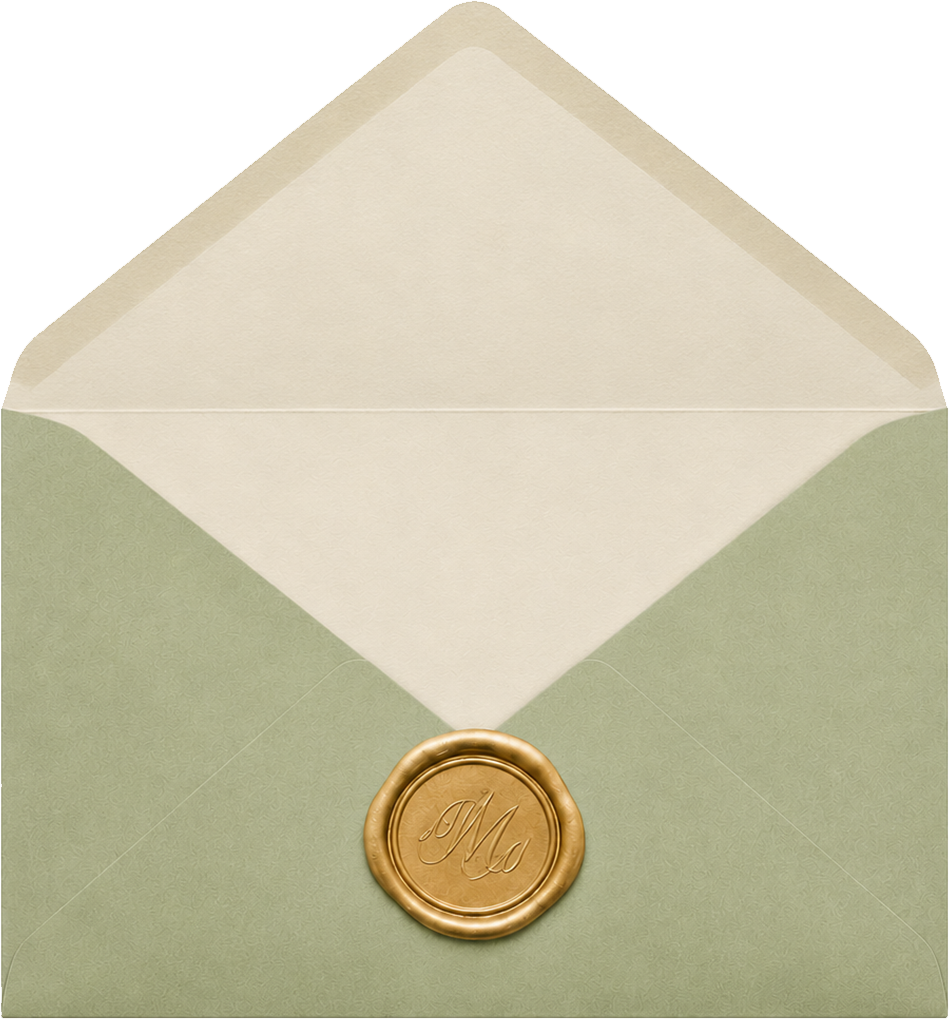
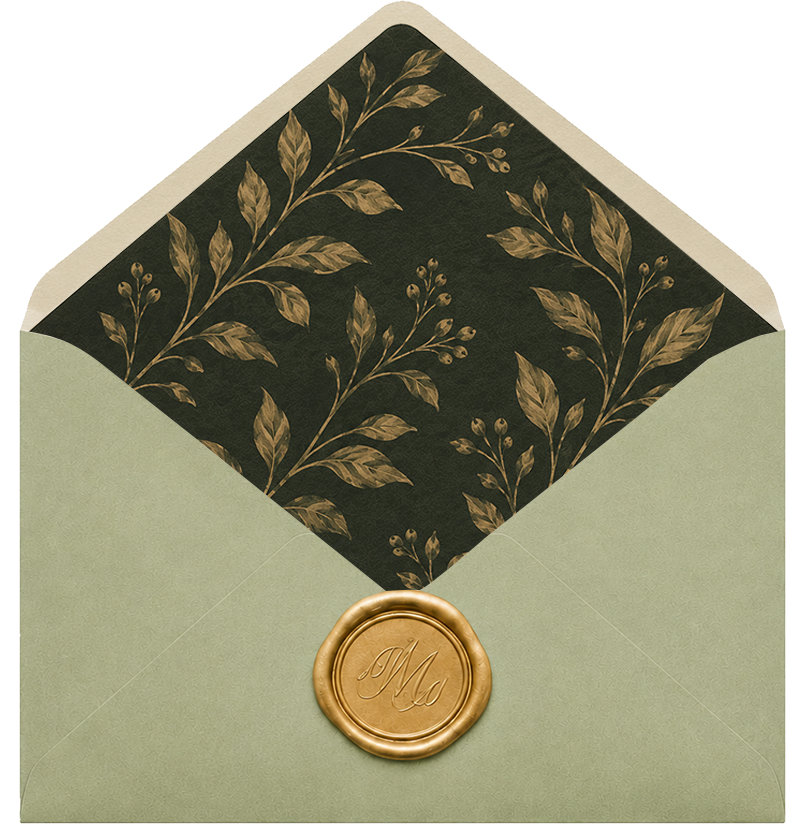
added google maps redirect and some fixes

diff --git a/index.html b/index.html
@@ -257,51 +257,84 @@
     display: flex;
     align-items: center;
     justify-content: center;
-    gap: 2rem;
+    gap: clamp(1.5rem, 6vw, 3.5rem);
     width: 100%;
     margin-top: 1rem;
   }
+
+  .playlist-row .envelope-img {
+    width: clamp(140px, 38vw, 260px);
+    height: auto;
+    object-fit: contain;
+    flex-shrink: 0;
+  }
+
   .vinyl-container {
     display: flex;
+    flex-direction: column;
     align-items: center;
-    gap: 1rem;
     cursor: pointer;
+    flex-shrink: 0;
   }
-  .vinyl-text span {
-    display: block;
-    font-family: 'Great Vibes', cursive;
-    font-size: 2rem;
-    color: #2C3B2E;
+
+  .vinyl-wrapper {
+    position: relative;
+    width: clamp(190px, 50vw, 360px);
+    height: clamp(140px, 38vw, 260px);
+    flex-shrink: 0;
+    transition: transform 0.4s cubic-bezier(0.175, 0.885, 0.32, 1.275), filter 0.4s ease;
   }
-  .vinyl-text small {
-    font-family: 'Jost', sans-serif;
-    letter-spacing: 2px;
-    font-size: 0.7rem;
-    text-transform: uppercase;
+
+  .vinyl-container:hover .vinyl-wrapper {
+    transform: scale(1.04) translateY(-4px);
+    filter: drop-shadow(0 15px 25px rgba(0,0,0,0.15));
   }
-  .vinyl-record {
-    width: 80px;
-    height: 80px;
-    background: #111;
+
+  .vinyl-container:active .vinyl-wrapper {
+    transform: scale(0.96) translateY(2px);
+    filter: drop-shadow(0 5px 10px rgba(0,0,0,0.1));
+    transition: transform 0.1s ease, filter 0.1s ease;
+  }
+  
+  .vinyl-disc {
+    position: absolute;
+    top: 50%;
+    left: 0;
+    width: clamp(140px, 38vw, 260px);
+    height: clamp(140px, 38vw, 260px);
+    transform: translateY(-50%);
+    transform-origin: center center;
     border-radius: 50%;
-    display: flex;
-    align-items: center;
-    justify-content: center;
-    box-shadow: 0 5px 15px rgba(0,0,0,0.2);
-    transition: transform 0.3s;
+    object-fit: cover;
+    z-index: 1;
+    transition: left 0.5s ease;
   }
-  .vinyl-record::before {
-    content: '';
-    width: 30px;
-    height: 30px;
-    background: #FAF7F2;
-    border-radius: 50%;
-    border: 2px solid #D4AF37;
+  
+  .vinyl-cover {
+    position: absolute;
+    top: 50%;
+    left: 0;
+    width: clamp(140px, 38vw, 260px);
+    height: clamp(140px, 38vw, 260px);
+    transform: translateY(-50%);
+    object-fit: contain;
+    z-index: 2;
+    filter: drop-shadow(0 5px 10px rgba(0,0,0,0.2));
+    transition: left 0.5s ease;
   }
-  .vinyl-container.playing .vinyl-record {
-    animation: spin 3s linear infinite;
+
+  .vinyl-container.playing .vinyl-disc {
+    left: 35%;
+    animation: spinDisc 2.5s linear infinite;
   }
-  @keyframes spin { 100% { transform: rotate(360deg); } }
+  .vinyl-container.playing .vinyl-cover {
+    left: 0;
+  }
+  
+  @keyframes spinDisc {
+    from { transform: translateY(-50%) rotate(0deg); }
+    to   { transform: translateY(-50%) rotate(360deg); }
+  }
 
   /* ════ MAIN INVITE & PHOTO OVERLAP ════ */
   .collage-row {
@@ -362,6 +395,11 @@
     text-align: center;
     padding: 2rem;
     cursor: pointer;
+    transition: transform 0.3s ease, box-shadow 0.3s ease;
+  }
+  .details-circle:hover {
+    transform: translateY(-5px);
+    box-shadow: 0 10px 30px rgba(0,0,0,0.12);
   }
   .details-circle h3 {
     font-family: 'Great Vibes', cursive;
@@ -430,7 +468,6 @@
     box-shadow: 0 12px 40px rgba(44,59,46,0.25), 0 3px 8px rgba(0,0,0,0.1);
   }
 
-  /* Revealed content underneath */
   .scratch-reveal {
     position: absolute;
     inset: 0;
@@ -481,7 +518,6 @@
     transition: none;
   }
 
-  /* Animate reveal content in when .revealed is added */
   .scratch-reveal.revealed .reveal-pre {
     animation: revealFadeUp 0.5s cubic-bezier(0.34,1.56,0.64,1) 0.05s forwards;
   }
@@ -498,7 +534,6 @@
     to { opacity: 1; transform: translateY(0); }
   }
 
-  /* Scratch canvas sits on top */
   #scratch-canvas {
     position: absolute;
     inset: 0;
@@ -508,7 +543,6 @@
     z-index: 1;
   }
 
-  /* Sparkle container — above canvas, no pointer events */
   #sparkle-container {
     position: absolute;
     inset: 0;
@@ -528,7 +562,6 @@
     100% { transform: translate(var(--tx), var(--ty)) scale(0); opacity: 0; }
   }
 
-  /* Custom cursor dot */
   #scratch-cursor {
     position: fixed;
     width: 36px;
@@ -548,7 +581,6 @@
     background: rgba(255,255,255,0.22);
   }
 
-  /* Countdown box */
   .countdown-box {
     background: #fff;
     padding: 1.5rem 2rem;
@@ -627,15 +659,12 @@
   <div class="scrapbook-container" id="main-content">
     
     <div class="playlist-row">
-      <div class="img-placeholder floral-placeholder-1" style="width: 100px; height: 100px; border-radius: 0;">
-        Flower Box
-      </div>
+      <img src="Envelope_Opened.png" alt="Opened Envelope" class="envelope-img">
       <div class="vinyl-container" id="vinyl-btn" onclick="toggleMusic()">
-        <div class="vinyl-text">
-          <span>Playlist</span>
-          <small>Click Here</small>
+        <div class="vinyl-wrapper">
+          <img src="Vinyl_Disc.png"  class="vinyl-disc"  alt="Vinyl Disc">
+          <img src="Vinyl_Cover.png" class="vinyl-cover" alt="Vinyl Cover">
         </div>
-        <div class="vinyl-record"></div>
       </div>
     </div>
 
@@ -649,7 +678,7 @@
         <p class="pre-title">Invitation<br>To Celebrate<br>The Wedding Of</p>
         <h3>Tanuj<br>&amp;<br>Kanchan</h3>
         <p style="font-style: italic; font-size: 0.8rem; margin-top: 1.5rem; color: #666;">
-          The Grand Palace<br>Pune, Maharashtra
+          Indraprashta Tower<br>Akola, Maharashtra
         </p>
       </div>
 
@@ -658,8 +687,8 @@
       </div>
     </div>
 
-    <div class="details-circle">
-      <h3>The Details</h3>
+    <div class="details-circle" onclick="window.open('https://www.google.com/maps/search/?api=1&query=P276%2BM2R%2C+New+Radhakisan+Plots%2C+Ranpise+Nagar%2C+Akola%2C+Maharashtra+444005', '_blank')">
+      <h3>The Venue</h3>
       <p class="pre-title">Click Here</p>
       <div class="img-placeholder key-placeholder">Key</div>
       <div class="polaroid" style="position: absolute; bottom: -20px; right: 20px; width: 80px; height: 100px; --rot: 12; padding: 5px 5px 20px 5px;">
@@ -707,6 +736,8 @@
           <div class="cd-item"><span id="cdM">--</span><small>Min</small></div>
           <div class="cd-item"><span id="cdS">--</span><small>Sec</small></div>
         </div>
+        <p style="margin-top: 1.2rem; font-family: 'Jost', sans-serif; font-size: 0.75rem; letter-spacing: 0.15em; text-transform: uppercase; color: #aaa;">Until the Big Day</p>
+        <p style="margin-top: 0.5rem; font-family: 'Great Vibes', cursive; font-size: 1.8rem; color: #2C3B2E; line-height: 1.2;">With love &amp; gratitude,<br>Tanuj and Kanchan</p>
       </div>
     </div>
 
@@ -767,11 +798,9 @@
   let fallbackTimer  = null;
   let lastX = null, lastY = null;
 
-  // ── Premium dark-green gold surface ───────────────────────
   function initScratch() {
     ctx.globalCompositeOperation = 'source-over';
 
-    // Deep green gradient
     const bg = ctx.createLinearGradient(0, 0, canvas.width, canvas.height);
     bg.addColorStop(0.00, '#2e4030');
     bg.addColorStop(0.35, '#243228');
@@ -780,7 +809,6 @@
     ctx.fillStyle = bg;
     ctx.fillRect(0, 0, canvas.width, canvas.height);
 
-    // Diagonal gold shimmer streaks
     ctx.globalAlpha = 0.06;
     for (let i = -canvas.height; i < canvas.width + canvas.height; i += 22) {
       ctx.beginPath();
@@ -790,7 +818,6 @@
       ctx.lineWidth = 7;
       ctx.stroke();
     }
-    // Fine noise
     ctx.globalAlpha = 0.035;
     for (let i = 0; i < 2400; i++) {
       ctx.beginPath();
@@ -800,26 +827,22 @@
     }
     ctx.globalAlpha = 1;
 
-    // Soft gold glow at centre
     const glow = ctx.createRadialGradient(canvas.width/2, canvas.height/2, 10, canvas.width/2, canvas.height/2, canvas.width*0.7);
     glow.addColorStop(0, 'rgba(212,175,55,0.1)');
     glow.addColorStop(1, 'rgba(0,0,0,0)');
     ctx.fillStyle = glow;
     ctx.fillRect(0, 0, canvas.width, canvas.height);
 
-    // Gold embossed text
     ctx.textAlign = 'center';
     ctx.textBaseline = 'middle';
     const cx = canvas.width/2, cy = canvas.height/2;
 
-    // Shadow
     ctx.fillStyle = 'rgba(0,0,0,0.5)';
     ctx.font = 'bold 16px Jost, sans-serif';
     ctx.fillText('✦  SCRATCH HERE  ✦', cx+1, cy-11);
     ctx.font = '11px Jost, sans-serif';
     ctx.fillText('to reveal the wedding date', cx+1, cy+15);
 
-    // Gold gradient text
     const gold = ctx.createLinearGradient(0, cy-20, 0, cy+20);
     gold.addColorStop(0,   '#f0dc82');
     gold.addColorStop(0.4, '#D4AF37');
@@ -836,7 +859,6 @@
   }
   initScratch();
 
-  // ── Coordinate helper ──────────────────────────────────────
   function getPos(e) {
     const rect = canvas.getBoundingClientRect();
     const src  = e.touches ? e.touches[0] : e;
@@ -848,7 +870,6 @@
     };
   }
 
-  // ── Gold sparkle burst ─────────────────────────────────────
   const GOLD = ['#f0dc82','#D4AF37','#e8c840','#fffde0','#c8a820','#fff'];
   function spawnSparkles(x, y, count) {
     for (let i = 0; i < (count||6); i++) {
@@ -871,7 +892,6 @@
     }
   }
 
-  // ── Feathered gradient brush with smear trail ──────────────
   function paintAt(x, y) {
     const r = 28 + Math.random() * 5;
     const g = ctx.createRadialGradient(x, y, 0, x, y, r);
@@ -891,7 +911,6 @@
     e.preventDefault();
     const { x, y, cx, cy } = getPos(e);
 
-    // Smear trail
     if (lastX !== null) {
       const dist  = Math.hypot(x-lastX, y-lastY);
       const steps = Math.max(1, Math.floor(dist/5));
@@ -904,7 +923,6 @@
     }
     lastX = x; lastY = y;
 
-    // Throttled sparkles
     const now = Date.now();
     if (!doScratch._t || now - doScratch._t > 55) {
       doScratch._t = now;
@@ -917,7 +935,6 @@
     }
   }
 
-  // ── Progress poll every 500ms ──────────────────────────────
   setInterval(() => {
     if (scratchDone || !scratchStarted) return;
     try {
@@ -928,18 +945,15 @@
     } catch(err) {}
   }, 500);
 
-  // ── Reveal ─────────────────────────────────────────────────
   function completeReveal() {
     if (scratchDone) return;
     scratchDone = true;
     clearTimeout(fallbackTimer);
 
-    // Instant clear
     ctx.globalCompositeOperation = 'destination-out';
     ctx.fillStyle = 'rgba(0,0,0,1)';
     ctx.fillRect(0, 0, canvas.width, canvas.height);
 
-    // Celebratory sparkle burst across card
     for (let i = 0; i < 6; i++) {
       setTimeout(() => {
         for (let j = 0; j < 7; j++) {
@@ -952,10 +966,8 @@
       }, i * 70);
     }
 
-    // Animate date text in
     document.getElementById('scratch-reveal').classList.add('revealed');
 
-    // Show countdown after date settles
     setTimeout(() => {
       document.getElementById('countdown-box').classList.add('visible');
       tick();
@@ -963,7 +975,6 @@
     }, 1200);
   }
 
-  // ── Custom cursor ──────────────────────────────────────────
   canvas.addEventListener('mouseenter', () => scrCursor.style.display = 'block');
   canvas.addEventListener('mouseleave', () => { scrCursor.style.display = 'none'; isScratching = false; lastX = null; });
   window.addEventListener('mousemove',  (e) => { scrCursor.style.left = e.clientX+'px'; scrCursor.style.top = e.clientY+'px'; });
@@ -975,7 +986,6 @@
   canvas.addEventListener('touchmove',  doScratch, { passive: false });
   canvas.addEventListener('touchend',   () => { isScratching = false; lastX = null; });
 
-  // ── Countdown ─────────────────────────────────────────────
   const wDate = new Date('2026-06-26T12:30:00+05:30');
   function tick() {
     const diff = wDate - new Date();
